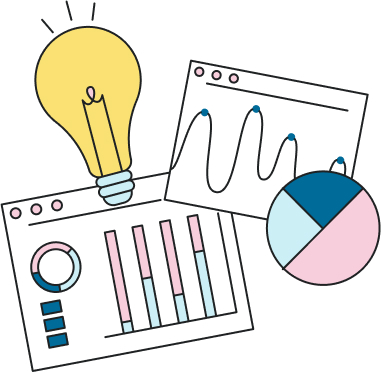
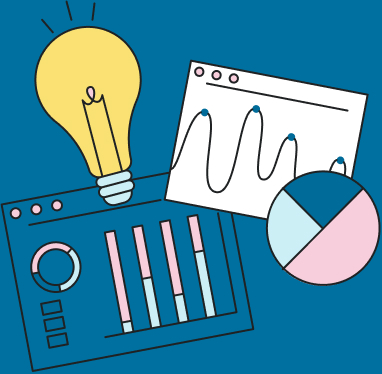
html

diff --git a/index.html b/index.html
@@ -11,14 +11,14 @@
 </head>
 <body>
 
-    <!-- Header -->
 
     <header>
         <div class="container flex">
-            <div class="logo">
-                <a href="/"></a>
-                <img src="assets/whirllogo.svg" alt="whirl logo">
-                <span>Whirl</span>
+            <div class="header-logo">
+                <a href="/">
+                    <img src="assets/whirllogo.svg" alt="whirl logo">                 
+                </a>
+
             </div>
             <nav>
                 <a href="#">Features</a>
@@ -35,7 +35,6 @@
     </header>
 
 
-    <!-- Main -->
 
     <main>
         <section class="description">
@@ -55,6 +54,7 @@
                 <img src="assets/doskokvadr.jpg" alt="doska s kvadratami">
             </div>
         </section>
+
         <section class="trusted">
             <div class="container">
                 <p class="basic-text trusted-text">Trusted by 50,000+ companies</p>
@@ -66,6 +66,7 @@
                 </div>
             </div>
         </section>
+
         <section class="advantages">
             <div class="container">
                 <div class="yellow-bg advantage-card">
@@ -167,13 +168,13 @@
         </section>
 
         <section class="about">
-            <div class="container">
+            <div class="container about-cards">
                 <h2>
                     What's Whirl
                     all about?
                 </h2>
 
-                <div class="about-cards">
+                <div>
                     <div class="about-card">
                         <h3>All on one place</h3>
                         <div class="card-content">
@@ -187,7 +188,7 @@
                     </div>
                 </div>
 
-                <div class="about-cards">
+                <div>
                     <div class="about-card">
                         <img src="assets/lupa.svg" alt="lupa">
                         <h3>Get daily alerts.</h3>
@@ -202,7 +203,7 @@
                     </div>
                 </div>
 
-                <div class="about-cards">
+                <div>
                     <div class="about-card">
                         <img src="assets/minicomputer.svg" alt="minicomputer">                        
                         <h3>Safe and secure.</h3>
@@ -219,13 +220,201 @@
 
             </div>
         </section>
-        
+        <section class="targets">
+            <div class="container">
+                <img src="assets/lampographic.jpg" alt="lampographic">
+                <div class="targets-content">
+                    <h2 class="targets-head">Set, forget, and then track.</h2>
+                    <p>
+                        Lorem ipsum dolor sit amet, consectetur adipiscing elit,
+                        sed do eiusmod tempor incididunt ut labore et dolore
+                        magna aliqua.
+                    </p>
+                    <ul class="targets-tags">
+                        <li>
+                            <img src="assets/galochka.svg" alt="galochka">
+                            <span>Understand your options</span>
+                        </li>
+                        <li>
+                            <img src="assets/galochka.svg" alt="galochka">
+                            <span>No lock-ins</span>
+                        </li>
+                        <li>
+                            <img src="assets/galochka.svg" alt="galochka">
+                            <span>You own the shares</span>
+                        </li>                        
+                    </ul>
+                    
+                    <button class="blue-button">Book a demo</button>  
+                </div>
+            </div>
+        </section>
+        <section class="tasks">
+            <div class="container">
+                <h2>Your tasks, automated.</h2>
+                <p class="description">
+                    Lorem ipsum dolor sit amet, consectetur adipiscing elit, sed do eiusmod
+                    tempor incididunt ut labore et dolore magna aliqua.
+                </p>
+            </div>
+            <div class="tasks-items">
+                <div class="tasks-item">
+                    <img src="assets/share.svg" alt="share">
+                    <h3>Learn your options.</h3>
+                    <p>
+                        Lorem ipsum dolor sit amet,
+                        consectetur adipiscing elit,
+                        sed do eiusmod tempor.
+                    </p>
+                </div>
+                <div class="tasks-item">
+                    <img src="assets/blue_molnia.svg" alt="share">
+                    <h3>Stay informed.</h3>
+                    <p>
+                        Lorem ipsum dolor sit amet,
+                        consectetur adipiscing elit, sed
+                        do eiusmod tempor ipsum.
+                    </p>
+                </div>
+                <div class="tasks-item">
+                    <img src="assets/klass.svg" alt="share">
+                    <h3>Automate it all.</h3>
+                    <p>
+                        Lorem ipsum dolor sit amet,
+                        consectetur adipiscing elit,
+                        sed do eiusmod tempor.
+                    </p>
+                </div>                
+                <div class="tasks-item">
+                    <img src="assets/voskl_znaki.svg" alt="share">
+                    <h3>Stay informed.</h3>
+                    <p>
+                        Lorem ipsum dolor sit amet,
+                        consectetur adipiscing elit,
+                        sed do eiusmod incididunt ut
+                        labore et consectetur.
+                    </p>
+                </div>   
+            </div>
+        </section>
+
+        <section class="smarter">
+            <div class="container">
+                <h2>Get smarter, with our blog.</h2>
+                <div class="smarter-cards">
+                    <div class="smarter-card">
+                        <img src="assets/smartfon.jpg" alt="smatfon">
+                        <span>Improvements</span>
+                        <h3>Automating Daily Tasks from Your Phone</h3>
+                        <p>
+                            Dicta nihil ratione corrupti. Aut dolorem
+                            dolores omnis laboriosam ratione sequi.
+                            Provident ad sed velit. Est ea ab.
+                        </p>
+                        <time datetime="2022-04-24" class="card-date">April 24, 2022</time>
+                    </div>
+                    <div class="smarter-card">
+                        <img src="assets/nout.jpg" alt="nout">
+                        <span>Tips & Tricks</span>
+                        <h3>Can You Automate Group Learning?</h3>
+                        <p>
+                            Dicta nihil ratione corrupti. Aut dolorem
+                            dolores omnis laboriosam ratione sequi.
+                            Provident ad sed velit. Est ea ab.
+                        </p>
+                        <time datetime="2022-04-24" class="card-date">April 24, 2022</time>
+                    </div>
+                    <div class="smarter-card">
+                        <img src="assets/handshake.jpg" alt="handshake">
+                        <span>News</span>
+                        <h3>Our $3,000,000 B Round Investors</h3>
+                        <p>
+                            Eos ipsum et est quis neque cum. Quis
+                            autem est eligendi amet animi eaque. Itaque
+                            minus illo delectus vel vitae dolores minus.
+                        </p>
+                        <time datetime="2022-04-24" class="card-date">April 24, 2022</time>
+                    </div>                    
+                </div>
+            </div>
+        </section>
+
+        <section class="started">
+            <div class="container">
+                <h2>Get started with Whirl</h2>
+                <p>
+                    Lorem ipsum dolor sit amet, consectetur adipiscing elit,
+                    sed do eiusmod tempor incididunt.
+                </p>
+                <button class="blue-button">Book a demo</button>
+                <ul class="started-tags">
+                    <li>
+                        <img src="assets/galochka2.svg" alt="galochka2">
+                        <span>Free 30-day trial</span>
+                    </li>
+                    <li>
+                        <img src="assets/galochka2.svg" alt="galochka2">
+                        <span>No credit-card required</span>
+                    </li>
+                </ul>
+            </div>
+        </section>
     </main>
 
-    <!-- Footer -->
      
     <footer>
+        <div class="container">
+            <div>
+                <div class="footer-logo">
+                    <a href="/">
+                        <img src="assets/whirllogo.svg" alt="whirl logo">
+                    </a>
 
+                </div>
+                <div>
+                    <p>
+                        Built by <a href="#">Nikolai Bain</a>.
+                    </p>
+                    <p>
+                        Powered by <a href="#">Webflow</a>.
+                    </p>
+                </div>
+            </div>
+            <div class="footer-links">
+                <h5>Info</h5>
+                <a href="#">Features</a>
+                <a href="#">Pricing</a>
+                <a href="#">Blog</a>
+                <a href="#">Support</a>
+                <a href="#">Terms & Conditions</a>
+                <a href="#">Privacy Policy</a>                
+            </div>
+            <div class="footer-links">
+                <h5>Admin</h5>
+                <a href="#">Style Guide</a>
+                <a href="#">Licenses</a>
+                <a href="#">Instructions</a>
+                <a href="#">Changelog</a>
+                <a href="#">Password</a>
+                <a href="#">404</a>                
+            </div>
+            <div class="newsletter">
+                <h5>Newsletter</h5>
+                <p>
+                    Sign up for the latest
+                    news, company insights,
+                    and Whirl updates.
+                </p>
+                <form class="subscribe-form" action="Sending">
+                        <div class="input-group">
+                            <input type="email" class="subscribe-input" placeholder="Your email" required>
+                            <button type="submit" class="subscribe-button">
+                                <img src="assets/email_button.svg" alt="Submit">
+                            </button>
+                        </div>
+                </form>
+            </div>                   
+        </div>
     </footer>
 </body>
 </html>